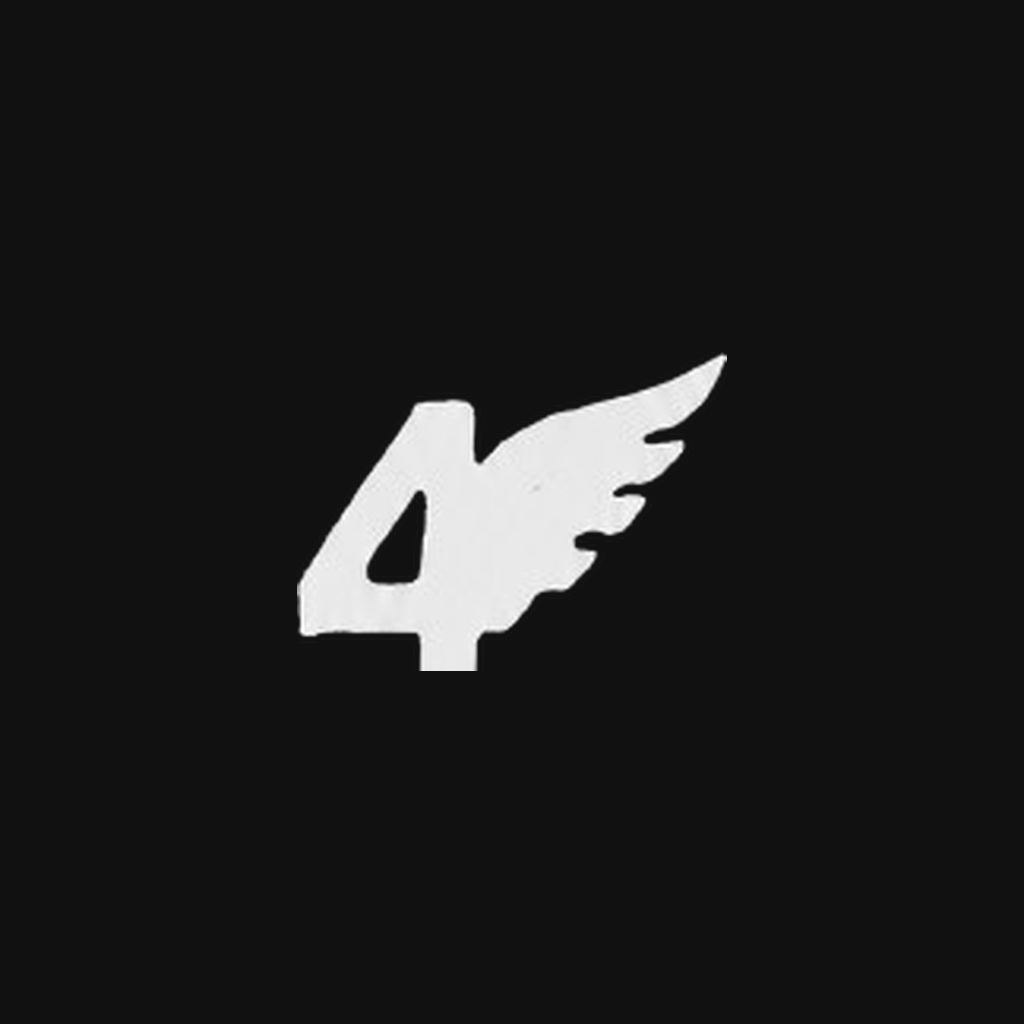
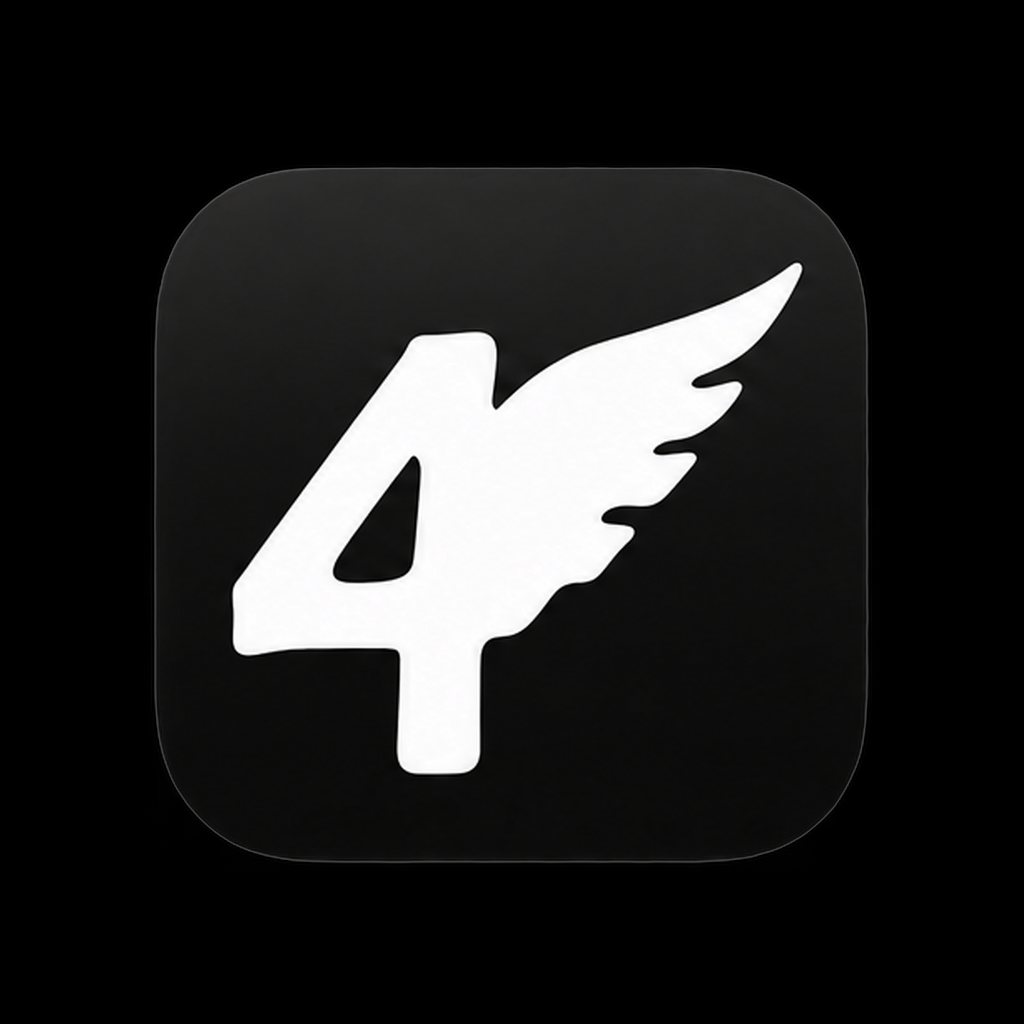
Sync each visit to GHL Check-ins history and refresh brand assets
Create and associate a Check-ins custom object record on every award, and ship the premium logos for the member app.

diff --git a/apps/api/src/integrations/ghl.ts b/apps/api/src/integrations/ghl.ts
@@ -31,6 +31,208 @@ export function normalizePointsFieldKey(raw: string): string {
   return trimmed;
 }
 
+/**
+ * Normalize custom-object field keys from merge tags, e.g.
+ * {{custom_objects.check_ins.checkin_date}} → checkin_date
+ */
+export function normalizeCustomObjectFieldKey(raw: string): string {
+  const trimmed = raw.trim();
+  const merge = trimmed.match(
+    /\{\{\s*custom_objects\.[a-zA-Z0-9_]+\.([a-zA-Z0-9_]+)\s*\}\}/
+  );
+  if (merge) return merge[1];
+  const dotted = trimmed.match(/^custom_objects\.[a-zA-Z0-9_]+\.([a-zA-Z0-9_]+)$/);
+  if (dotted) return dotted[1];
+  return trimmed;
+}
+
+type GhlAssociation = {
+  id?: string;
+  firstObjectKey?: string;
+  secondObjectKey?: string;
+};
+
+let cachedCheckinAssociation:
+  | { id: string; contactIsFirst: boolean }
+  | null
+  | undefined;
+
+function isContactObjectKey(key: string | undefined): boolean {
+  if (!key) return false;
+  const k = key.toLowerCase();
+  return k === "contact" || k === "contacts";
+}
+
+async function resolveCheckinAssociation(
+  schemaKey: string
+): Promise<{ id: string; contactIsFirst: boolean } | null> {
+  if (cachedCheckinAssociation !== undefined) {
+    return cachedCheckinAssociation;
+  }
+
+  const configuredId = env.GHL_CHECKIN_ASSOCIATION_ID?.trim();
+
+  const url = new URL(
+    `${env.GHL_API_BASE_URL}/associations/objectKey/${encodeURIComponent(schemaKey)}`
+  );
+  url.searchParams.set("locationId", env.GHL_LOCATION_ID);
+
+  const res = await fetch(url.toString(), {
+    method: "GET",
+    headers: ghlHeaders(),
+  });
+
+  if (res.ok) {
+    const data = (await res.json()) as
+      | GhlAssociation
+      | { associations?: GhlAssociation[] }
+      | GhlAssociation[];
+
+    const list: GhlAssociation[] = Array.isArray(data)
+      ? data
+      : Array.isArray((data as { associations?: GhlAssociation[] }).associations)
+        ? (data as { associations: GhlAssociation[] }).associations
+        : data && typeof data === "object" && "id" in data
+          ? [data as GhlAssociation]
+          : [];
+
+    const match = list.find((a) => {
+      if (configuredId && a.id && a.id !== configuredId) return false;
+      const first = String(a.firstObjectKey ?? "");
+      const second = String(a.secondObjectKey ?? "");
+      return (
+        (first === schemaKey && isContactObjectKey(second)) ||
+        (second === schemaKey && isContactObjectKey(first))
+      );
+    });
+
+    if (match?.id) {
+      cachedCheckinAssociation = {
+        id: match.id,
+        contactIsFirst: isContactObjectKey(String(match.firstObjectKey ?? "")),
+      };
+      return cachedCheckinAssociation;
+    }
+  } else {
+    const text = await res.text();
+    console.warn(
+      `[ghl] could not auto-resolve check-in association (${res.status}): ${text}`
+    );
+  }
+
+  // Fallback: env id only — assume Contact is first object (typical 1:many setup).
+  if (configuredId) {
+    cachedCheckinAssociation = { id: configuredId, contactIsFirst: true };
+    return cachedCheckinAssociation;
+  }
+
+  cachedCheckinAssociation = null;
+  return null;
+}
+
+/**
+ * One Custom Object record per visit, associated to the Contact (history for automations).
+ * No-ops when object key is empty or association cannot be resolved.
+ */
+export async function createGhlCheckinHistoryRecord(
+  ghlContactId: string,
+  pointsTotal: number,
+  checkinDate: string
+): Promise<void> {
+  const schemaKey = env.GHL_CHECKIN_OBJECT_KEY?.trim();
+  if (!schemaKey) return;
+
+  if (env.MOCK_INTEGRATIONS) {
+    console.log(
+      `[MOCK GHL] create ${schemaKey} record date=${checkinDate} points=${pointsTotal} for contact ${ghlContactId}`
+    );
+    return;
+  }
+
+  const association = await resolveCheckinAssociation(schemaKey);
+  if (!association) {
+    console.warn(
+      "[ghl] skipping check-in history record: set GHL_CHECKIN_ASSOCIATION_ID " +
+        "(Settings → Custom Objects → Associations) and ensure the Private Integration " +
+        "has objects/record.write + associations/relation.write (+ associations.readonly to auto-resolve)."
+    );
+    return;
+  }
+
+  const dateKey = normalizeCustomObjectFieldKey(
+    env.GHL_CHECKIN_OBJECT_DATE_FIELD_KEY || "checkin_date"
+  );
+  const pointsKey = normalizeCustomObjectFieldKey(
+    env.GHL_CHECKIN_OBJECT_POINTS_FIELD_KEY || "points_total"
+  );
+  const nameKey = normalizeCustomObjectFieldKey(
+    env.GHL_CHECKIN_OBJECT_NAME_FIELD_KEY || "check_in"
+  );
+
+  const properties: Record<string, string | number> = {
+    [dateKey]: checkinDate,
+    [pointsKey]: pointsTotal,
+  };
+  if (nameKey) {
+    // Primary display field on the Check-ins object (required by many GHL schemas).
+    properties[nameKey] = `Check-in ${checkinDate}`;
+  }
+
+  const createRes = await fetch(
+    `${env.GHL_API_BASE_URL}/objects/${encodeURIComponent(schemaKey)}/records`,
+    {
+      method: "POST",
+      headers: ghlHeaders(),
+      body: JSON.stringify({
+        locationId: env.GHL_LOCATION_ID,
+        properties,
+      }),
+    }
+  );
+
+  if (!createRes.ok) {
+    const text = await createRes.text();
+    throw new Error(
+      `GHL create check-in record failed (${createRes.status}): ${text}`
+    );
+  }
+
+  const created = (await createRes.json()) as {
+    record?: { id?: string };
+    id?: string;
+  };
+  const recordId = created.record?.id || created.id;
+  if (!recordId) {
+    throw new Error(
+      `GHL create check-in record returned no id: ${JSON.stringify(created)}`
+    );
+  }
+
+  const firstRecordId = association.contactIsFirst ? ghlContactId : recordId;
+  const secondRecordId = association.contactIsFirst ? recordId : ghlContactId;
+
+  const relRes = await fetch(
+    `${env.GHL_API_BASE_URL}/associations/relations`,
+    {
+      method: "POST",
+      headers: ghlHeaders(),
+      body: JSON.stringify({
+        locationId: env.GHL_LOCATION_ID,
+        associationId: association.id,
+        firstRecordId,
+        secondRecordId,
+      }),
+    }
+  );
+
+  if (!relRes.ok) {
+    const text = await relRes.text();
+    throw new Error(
+      `GHL associate check-in record failed (${relRes.status}): ${text}`
+    );
+  }
+}
+
 export async function findGhlContactByPhone(
   phoneE164: string
 ): Promise<GhlContact | null> {

diff --git a/apps/api/src/config.ts b/apps/api/src/config.ts
@@ -77,6 +77,18 @@ const envSchema = z.object({
   GHL_POINTS_FIELD_ID: z.string().optional().default(""),
   GHL_CHECKIN_DATE_FIELD_KEY: z.string().optional().default("checkin_date"),
   GHL_CHECKIN_DATE_FIELD_ID: z.string().optional().default(""),
+  /** Custom Object schema key for per-visit history (empty = skip). */
+  GHL_CHECKIN_OBJECT_KEY: z.string().optional().default("custom_objects.check_ins"),
+  /** Field keys on that object (from merge tags {{custom_objects.check_ins.*}}). */
+  GHL_CHECKIN_OBJECT_DATE_FIELD_KEY: z.string().optional().default("checkin_date"),
+  GHL_CHECKIN_OBJECT_POINTS_FIELD_KEY: z.string().optional().default("points_total"),
+  /** Primary/display name field on the Check-ins object ({{custom_objects.check_ins.check_in}}). */
+  GHL_CHECKIN_OBJECT_NAME_FIELD_KEY: z.string().optional().default("check_in"),
+  /**
+   * Association id between Contact and Check-ins (Settings → Custom Objects → Associations).
+   * Required to write history unless associations.readonly can auto-resolve it.
+   */
+  GHL_CHECKIN_ASSOCIATION_ID: z.string().optional().default(""),
   OUTBOX_POLL_INTERVAL_MS: z.coerce.number().default(3000),
   OUTBOX_MAX_ATTEMPTS: z.coerce.number().default(8),
   /** Calendar day for permanent-card daily limit (IANA tz). */

diff --git a/scripts/lookup-ghl-members.js b/scripts/lookup-ghl-members.js
@@ -43,6 +43,8 @@ function normalizeName(s) {
     .toLowerCase()
     .normalize("NFKD")
     .replace(/[\u0300-\u036f]/g, "")
+    // curly / typographic apostrophes → straight (GHL often stores ’)
+    .replace(/[\u2018\u2019\u201B\u2032]/g, "'")
     .replace(/[''`]/g, "'")
     .replace(/[^a-z0-9'\s]/g, " ")
     .replace(/\s+/g, " ")
@@ -94,7 +96,22 @@ async function main() {
     process.stdout.write(`lookup: ${name}… `);
     let contacts;
     try {
-      contacts = await searchGhl(name);
+      // Try straight + curly apostrophe variants (GHL indexes these differently)
+      const variants = Array.from(
+        new Set([
+          name,
+          name.replace(/'/g, "\u2019"),
+          name.replace(/\u2019/g, "'"),
+          name.replace(/['\u2019]/g, ""),
+          name.replace(/['\u2019]/g, " "),
+        ])
+      );
+      const byId = new Map();
+      for (const q of variants) {
+        for (const c of await searchGhl(q)) byId.set(c.id, c);
+        await new Promise((r) => setTimeout(r, 120));
+      }
+      contacts = [...byId.values()];
     } catch (err) {
       console.log("ERROR");
       ambiguous.push({

diff --git a/apps/api/src/worker/outbox.ts b/apps/api/src/worker/outbox.ts
@@ -3,6 +3,7 @@ import { env } from "../config";
 import { calendarDateInShopTz } from "../lib/dates";
 import {
   addGhlCheckinNote,
+  createGhlCheckinHistoryRecord,
   updateGhlCheckinProfile,
 } from "../integrations/ghl";
 
@@ -68,6 +69,7 @@ async function processAwardGhlPoint(task: OutboxRow): Promise<void> {
   const checkinDate = task.payload.checkinDate || calendarDateInShopTz();
   await updateGhlCheckinProfile(ghlContactId, pointsTotal, checkinDate);
   await addGhlCheckinNote(ghlContactId, pointsTotal, checkinDate);
+  await createGhlCheckinHistoryRecord(ghlContactId, pointsTotal, checkinDate);
 }
 
 async function markDone(id: string): Promise<void> {

diff --git a/apps/member/src/BrandMark.tsx b/apps/member/src/BrandMark.tsx
@@ -21,7 +21,7 @@ export function BrandMark({
     <View style={styles.wrap}>
       <Image
         source={logos[variant]}
-        style={{ width: size, height: size * 0.74 }}
+        style={{ width: size, height: size * 0.86 }}
         resizeMode="contain"
       />
       {showWordmark ? (

diff --git a/DEPLOY.md b/DEPLOY.md
@@ -117,6 +117,11 @@ Optionally also set vars in hPanel → Environment variables. Do **not** commit 
 | `GHL_POINTS_FIELD_KEY` | e.g. `checkin_points` |
 | `GHL_POINTS_FIELD_ID` | optional field id |
 | `GHL_CHECKIN_DATE_FIELD_KEY` | e.g. `checkin_date` (`{{ contact.checkin_date }}`) |
+| `GHL_CHECKIN_OBJECT_KEY` | `custom_objects.check_ins` (per-visit history) |
+| `GHL_CHECKIN_OBJECT_DATE_FIELD_KEY` | `checkin_date` |
+| `GHL_CHECKIN_OBJECT_POINTS_FIELD_KEY` | `points_total` |
+| `GHL_CHECKIN_OBJECT_NAME_FIELD_KEY` | `check_in` (display name on each record) |
+| `GHL_CHECKIN_ASSOCIATION_ID` | Association id for Contact ↔ Check-ins |
 | `OUTBOX_POLL_INTERVAL_MS` | `3000` |
 | `OUTBOX_MAX_ATTEMPTS` | `8` |
 
